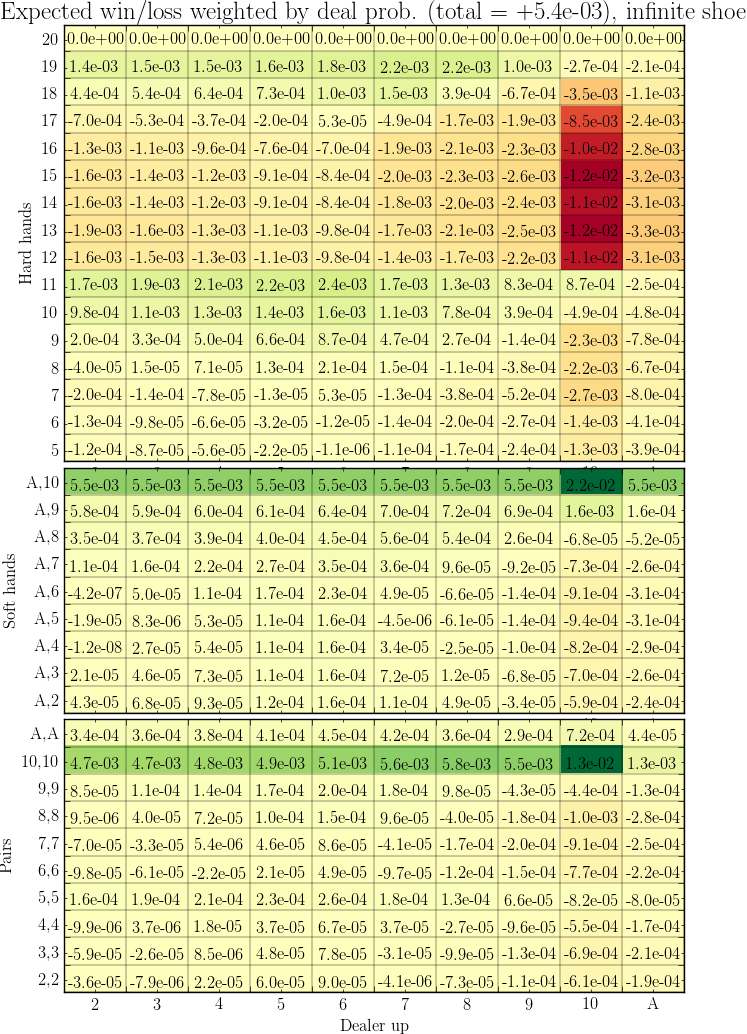
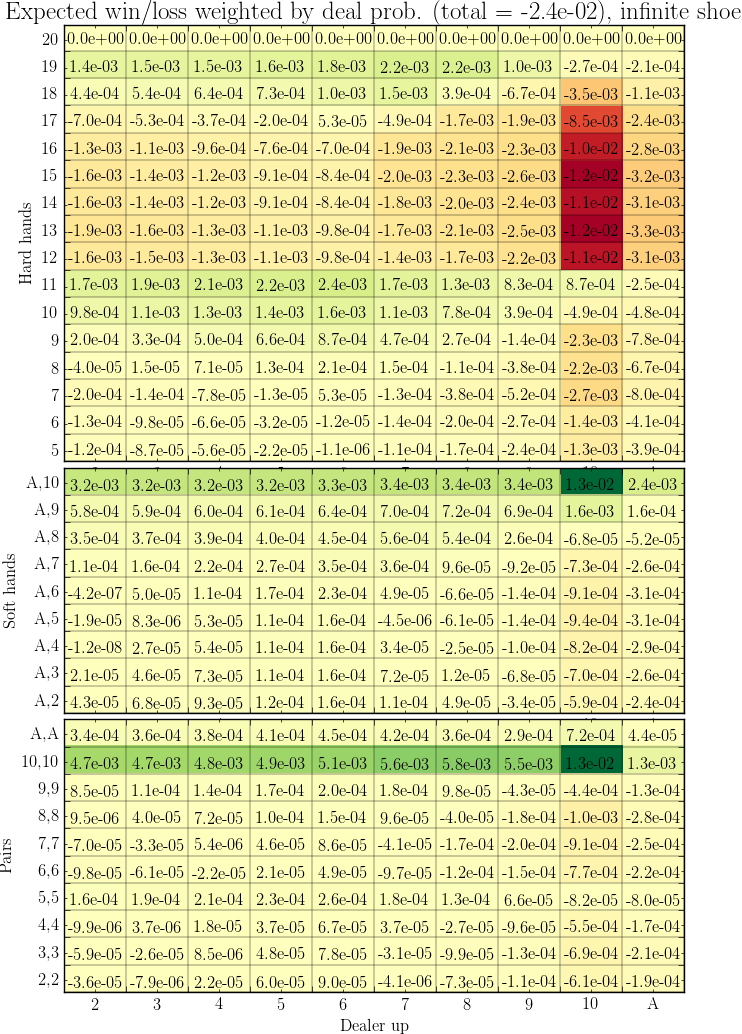
Re-ran table generator for infinite deck with no 3:2 payout on bj

Changed region(s): [[0.0, 0.0, 0.9299, 1.0]]

diff --git a/blackjack.c b/blackjack.c
@@ -53,6 +53,7 @@ void expected_value(real bet, Hand hand, Hand dealer, Shoe shoe, int* allowed, i
 		return;
 	} 
 
+#if 0
 	// if we have just dealt the hand, check for dealer/player blackjack
 	if(!depth) {
 	
@@ -76,11 +77,8 @@ void expected_value(real bet, Hand hand, Hand dealer, Shoe shoe, int* allowed, i
 		else {
 			// probability of losing to dealer BJ, or push
 		}
-	
-	
-	
-	
 	}
+#endif
 
 	// simulate the expected value of standing
 	// should always be allowed 
